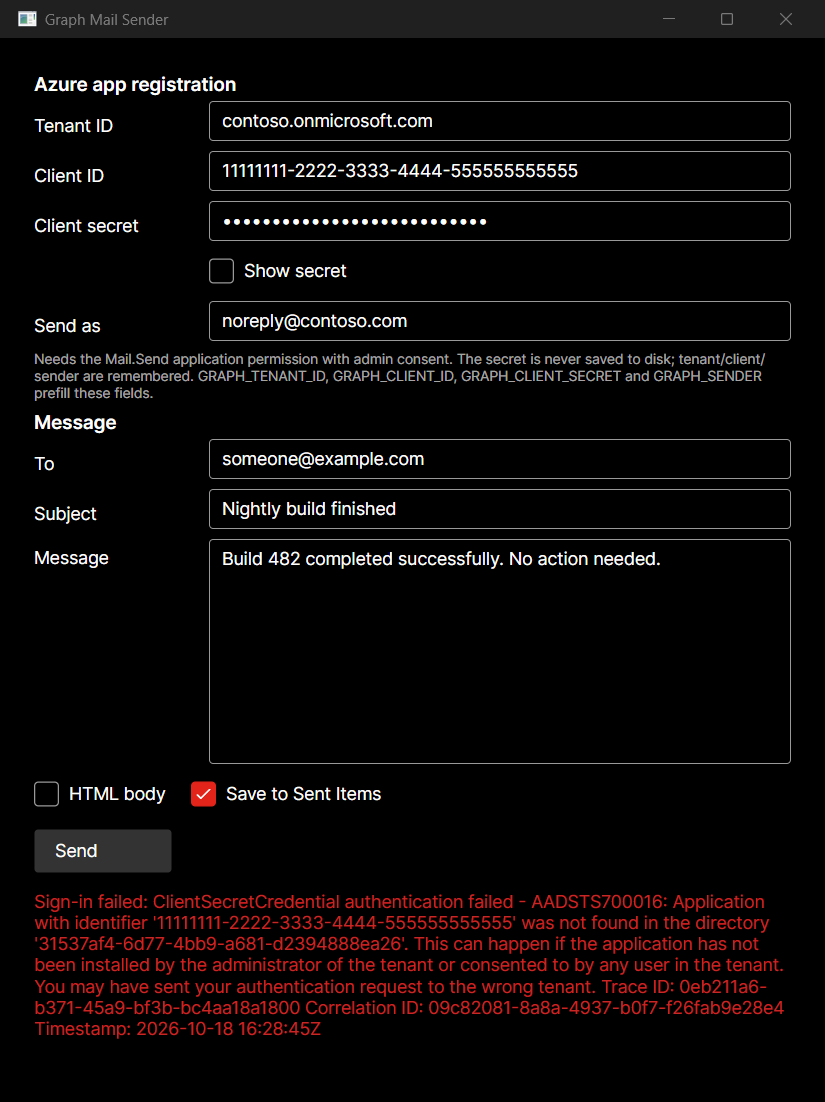
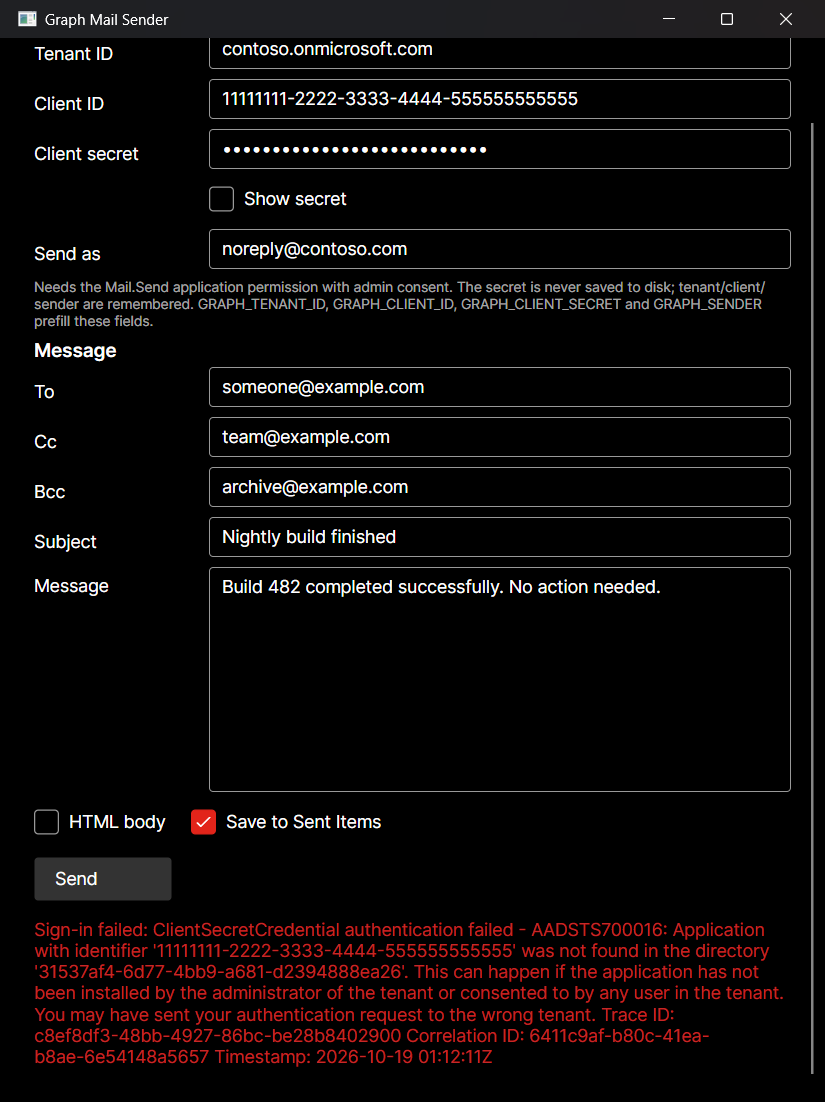
Add Cc and Bcc fields
Both optional, parsed with the same separators as To and validated alongside
it. Empty Cc/Bcc are omitted from the sendMail payload rather than sent as
empty arrays, which is why the message object is now built as a dictionary
instead of an anonymous type.

To is still required: a Cc or Bcc address alone does not enable Send. The
success status reports cc/bcc counts when they were used.

Screenshots recaptured against the new layout.

Changed region(s): [[0.0303, 0.0, 0.9394, 0.5554], [0.0303, 0.1234, 1.0, 0.9873]]

diff --git a/src/GraphMailSender/ViewModels/MainWindowViewModel.cs b/src/GraphMailSender/ViewModels/MainWindowViewModel.cs
@@ -18,6 +18,8 @@ public sealed class MainWindowViewModel : ViewModelBase
     private string _clientSecret = "";
     private string _senderAddress = "";
     private string _recipients = "";
+    private string _ccRecipients = "";
+    private string _bccRecipients = "";
     private string _subject = "";
     private string _body = "";
     private bool _isHtml;
@@ -74,6 +76,20 @@ public sealed class MainWindowViewModel : ViewModelBase
     {
         get => _recipients;
         set => SetAndRevalidate(ref _recipients, value);
+    }
+
+    /// <summary>Optional carbon-copy addresses, same separators as <see cref="Recipients"/>.</summary>
+    public string CcRecipients
+    {
+        get => _ccRecipients;
+        set => SetAndRevalidate(ref _ccRecipients, value);
+    }
+
+    /// <summary>Optional blind-carbon-copy addresses, same separators as <see cref="Recipients"/>.</summary>
+    public string BccRecipients
+    {
+        get => _bccRecipients;
+        set => SetAndRevalidate(ref _bccRecipients, value);
     }
 
     public string Subject
@@ -150,8 +166,14 @@ public sealed class MainWindowViewModel : ViewModelBase
 
         try
         {
-            var recipients = ParseRecipients(Recipients);
-            var invalid = recipients.Where(address => !IsEmail(address)).ToList();
+            var to = ParseRecipients(Recipients);
+            var cc = ParseRecipients(CcRecipients);
+            var bcc = ParseRecipients(BccRecipients);
+
+            var invalid = to.Concat(cc).Concat(bcc)
+                .Where(address => !IsEmail(address))
+                .Distinct(StringComparer.OrdinalIgnoreCase)
+                .ToList();
             if (invalid.Count > 0)
             {
                 SetStatus($"Not a valid email address: {string.Join(", ", invalid)}", isError: true);
@@ -164,7 +186,7 @@ public sealed class MainWindowViewModel : ViewModelBase
                 ClientSecret,
                 SenderAddress.Trim());
 
-            var mail = new MailRequest(recipients, Subject, Body, IsHtml, SaveToSentItems);
+            var mail = new MailRequest(to, cc, bcc, Subject, Body, IsHtml, SaveToSentItems);
 
             await _mailService.SendAsync(credentials, mail);
 
@@ -175,7 +197,7 @@ public sealed class MainWindowViewModel : ViewModelBase
                 SenderAddress = credentials.SenderAddress,
             });
 
-            SetStatus($"Sent to {string.Join(", ", recipients)}.", isError: false);
+            SetStatus(DescribeSent(to, cc, bcc), isError: false);
         }
         catch (GraphMailException ex)
         {
@@ -203,6 +225,27 @@ public sealed class MainWindowViewModel : ViewModelBase
         {
             SendCommand.RaiseCanExecuteChanged();
         }
+    }
+
+    /// <summary>"Sent to a@b.com." with a trailing "(1 cc, 2 bcc)" only when those were used.</summary>
+    private static string DescribeSent(
+        IReadOnlyList<string> to,
+        IReadOnlyList<string> cc,
+        IReadOnlyList<string> bcc)
+    {
+        var extras = new List<string>();
+        if (cc.Count > 0)
+        {
+            extras.Add($"{cc.Count} cc");
+        }
+
+        if (bcc.Count > 0)
+        {
+            extras.Add($"{bcc.Count} bcc");
+        }
+
+        var sent = $"Sent to {string.Join(", ", to)}.";
+        return extras.Count > 0 ? $"{sent} ({string.Join(", ", extras)})" : sent;
     }
 
     private static List<string> ParseRecipients(string raw) =>

diff --git a/src/GraphMailSender/Services/GraphMailService.cs b/src/GraphMailSender/Services/GraphMailService.cs
@@ -19,6 +19,8 @@ public sealed record GraphCredentials(string TenantId, string ClientId, string C
 /// <summary>The message to hand to Graph's sendMail action.</summary>
 public sealed record MailRequest(
     IReadOnlyList<string> To,
+    IReadOnlyList<string> Cc,
+    IReadOnlyList<string> Bcc,
     string Subject,
     string Body,
     bool IsHtml,
@@ -59,20 +61,32 @@ public sealed class GraphMailService
     {
         var token = await GetTokenAsync(credentials, ct).ConfigureAwait(false);
 
+        // A dictionary rather than an anonymous type so cc/bcc can be left out of the
+        // JSON entirely when unused, instead of being sent as empty arrays.
+        var message = new Dictionary<string, object>
+        {
+            ["subject"] = mail.Subject,
+            ["body"] = new
+            {
+                contentType = mail.IsHtml ? "HTML" : "Text",
+                content = mail.Body,
+            },
+            ["toRecipients"] = ToRecipients(mail.To),
+        };
+
+        if (mail.Cc.Count > 0)
+        {
+            message["ccRecipients"] = ToRecipients(mail.Cc);
+        }
+
+        if (mail.Bcc.Count > 0)
+        {
+            message["bccRecipients"] = ToRecipients(mail.Bcc);
+        }
+
         var payload = new
         {
-            message = new
-            {
-                subject = mail.Subject,
-                body = new
-                {
-                    contentType = mail.IsHtml ? "HTML" : "Text",
-                    content = mail.Body,
-                },
-                toRecipients = mail.To
-                    .Select(address => new { emailAddress = new { address } })
-                    .ToArray(),
-            },
+            message,
             saveToSentItems = mail.SaveToSentItems,
         };
 
@@ -135,6 +149,9 @@ public sealed class GraphMailService
             throw new GraphMailException($"Sign-in failed: {Flatten(ex)}", ex);
         }
     }
+
+    private static object[] ToRecipients(IReadOnlyList<string> addresses) =>
+        addresses.Select(address => new { emailAddress = new { address } }).ToArray();
 
     /// <summary>
     /// Joins an exception chain into one line. Azure.Identity's own message is just

diff --git a/README.md b/README.md
@@ -132,14 +132,18 @@ sends one message at a time, so you will only meet these limits by driving it ha
 | Field | What it is |
 | --- | --- |
 | To | One or more addresses separated by comma, semicolon or whitespace. Duplicates are removed; each is validated before anything is sent |
+| Cc | Optional carbon-copy addresses, same separators as To |
+| Bcc | Optional blind-carbon-copy addresses, same separators as To. Other recipients cannot see these |
 | Subject | Message subject. May be left empty |
 | Message | Body text. Required |
 | HTML body | Sends the body as `contentType: HTML` instead of `Text`. The box is a plain text editor either way — paste markup in yourself |
 | Save to Sent Items | Whether Graph keeps a copy in the sender's Sent Items. On by default |
 
 **Send** is disabled until Tenant ID, Client ID, Client secret, a valid *Send as* address, at
-least one valid recipient, and a non-empty body are all present. Subject is the only optional
-field.
+least one **To** recipient, and a non-empty body are all present. Subject, Cc and Bcc are
+optional — a Cc or Bcc address alone will not satisfy the recipient requirement, and empty
+Cc/Bcc fields are left out of the Graph request entirely rather than sent as empty arrays.
+Every address across all three fields is validated before anything is sent.
 
 ## Settings and secrets
 
